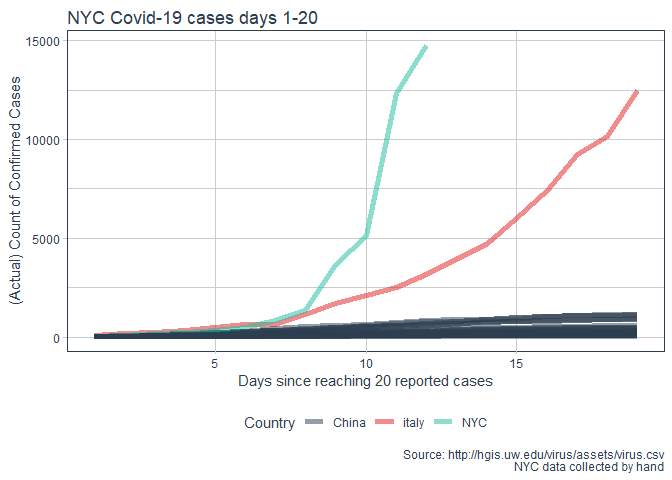
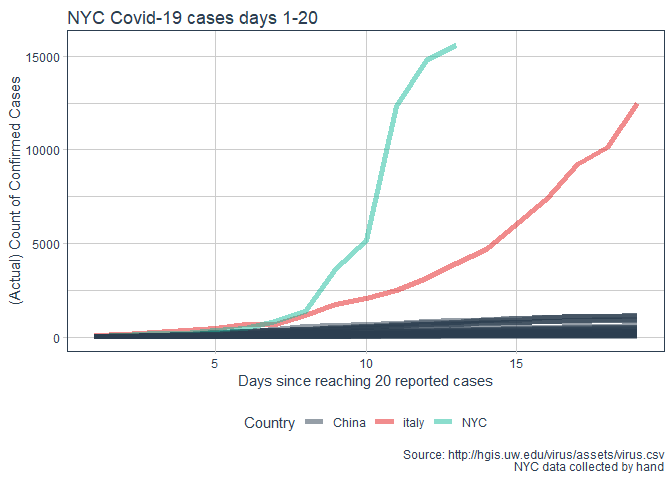
updates 2020-03-25

diff --git a/README.md b/README.md
@@ -54,13 +54,13 @@ ny_cases <-
 message("Number of confirmed NY cases as of ",max_date,": ", ny_cases$Confirmed,"\n")
 ```
 
-    ## Number of confirmed NY cases as of 2020-03-24: 21787
+    ## Number of confirmed NY cases as of 2020-03-24: 25665
 
 ``` r
 message("Number of active NY cases as of ",max_date,": ",ny_cases$Active)
 ```
 
-    ## Number of active NY cases as of 2020-03-24: 21630
+    ## Number of active NY cases as of 2020-03-24: 25455
 
 # Process case data
 
@@ -77,30 +77,30 @@ source("00 - Recording NYC Cases.R")
     ## # A tibble: 24 x 3
     ##    Var                value percent
     ##    <chr>              <chr>   <dbl>
-    ##  1 Total              14776      NA
-    ##  2 Median Age (Range) 45          0
+    ##  1 Total              15597      NA
+    ##  2 Median Age (Range) 46          0
     ##  3 Age Group          <NA>       NA
-    ##  4 -  0 to 17         374         3
-    ##  5 -  18 to 44        6786       46
-    ##  6 -  45 to 64        4906       33
-    ##  7 -  65 to 74        1591       11
-    ##  8 -  75 and over     1109        8
-    ##  9 -  Unknown         10         NA
+    ##  4 -  0 to 17         384         2
+    ##  5 -  18 to 44        7094       46
+    ##  6 -  45 to 64        5194       33
+    ##  7 -  65 to 74        1689       11
+    ##  8 -  75 and over     1227        8
+    ##  9 -  Unknown         9          NA
     ## 10 Age 50 and over    <NA>       NA
-    ## 11 -  Yes             6341       43
-    ## 12 -  No              8425       57
+    ## 11 -  Yes             6787       44
+    ## 12 -  No              8801       56
     ## 13 Sex                <NA>       NA
-    ## 14 -  Female          6374       43
-    ## 15 -  Male            8379       57
+    ## 14 -  Female          6736       43
+    ## 15 -  Male            8838       57
     ## 16 -  Unknown         23         NA
     ## 17 Borough            <NA>       NA
-    ## 18 -  Bronx           2328       16
-    ## 19 -  Brooklyn        4237       29
-    ## 20 -  Manhattan       2887       20
-    ## 21 -  Queens          4364       30
-    ## 22 -  Staten Island   953         6
-    ## 23 -  Unknown         7          NA
-    ## 24 Deaths             131        NA
+    ## 18 -  Bronx           2505       16
+    ## 19 -  Brooklyn        4407       28
+    ## 20 -  Manhattan       3013       19
+    ## 21 -  Queens          4667       30
+    ## 22 -  Staten Island   999         6
+    ## 23 -  Unknown         6          NA
+    ## 24 Deaths             192        NA
 
 ``` r
 processed %>% 
